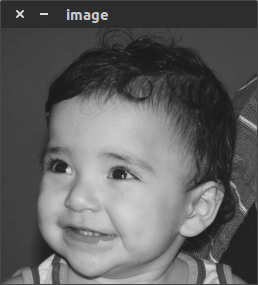
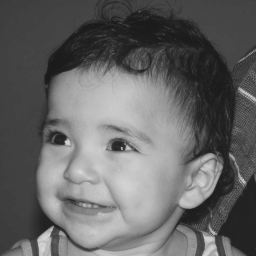
correcao 2.2

diff --git a/ex2.2/trocaregioes.cpp b/ex2.2/trocaregioes.cpp
@@ -4,13 +4,14 @@
 using namespace cv;
 using namespace std;
 
+//biel é uma imagem quadrada 256*256
 int main(int, char**){
   cv::Mat image;// quarter1, quarter2, quarter3, quarter4, aux;
-  cv::Mat quarter1(129,142, CV_8U);
-  cv::Mat quarter2(129,142, CV_8U);
-  cv::Mat quarter3(129,142, CV_8U);
-  cv::Mat quarter4(129,142, CV_8U);
-  cv::Mat aux(258,285, CV_8U);
+  cv::Mat quarter1(128,128, CV_8U);
+  cv::Mat quarter2(128,128, CV_8U);
+  cv::Mat quarter3(128,128, CV_8U);
+  cv::Mat quarter4(128,128, CV_8U);
+  cv::Mat aux(256,256, CV_8U);
   cv::Vec3b val;
 
   image= cv::imread("biel.png",cv::IMREAD_GRAYSCALE);
@@ -68,11 +69,11 @@ int main(int, char**){
     }
   }
    cout << "Até aqui ok!"<< endl;
-  /*for(int i=0;i<image.size().width/2;i++){
+  for(int i=0;i<image.size().width/2;i++){
     for(int j=0;j<image.size().height/2;j++){
       aux.at<uchar>(i+image.size().height/2,j+image.size().width/2)=quarter4.at<uchar>(i,j);
     }
-  }*/
+  }
 
   cv::imshow("Trocado", aux);  
   cv::waitKey();
